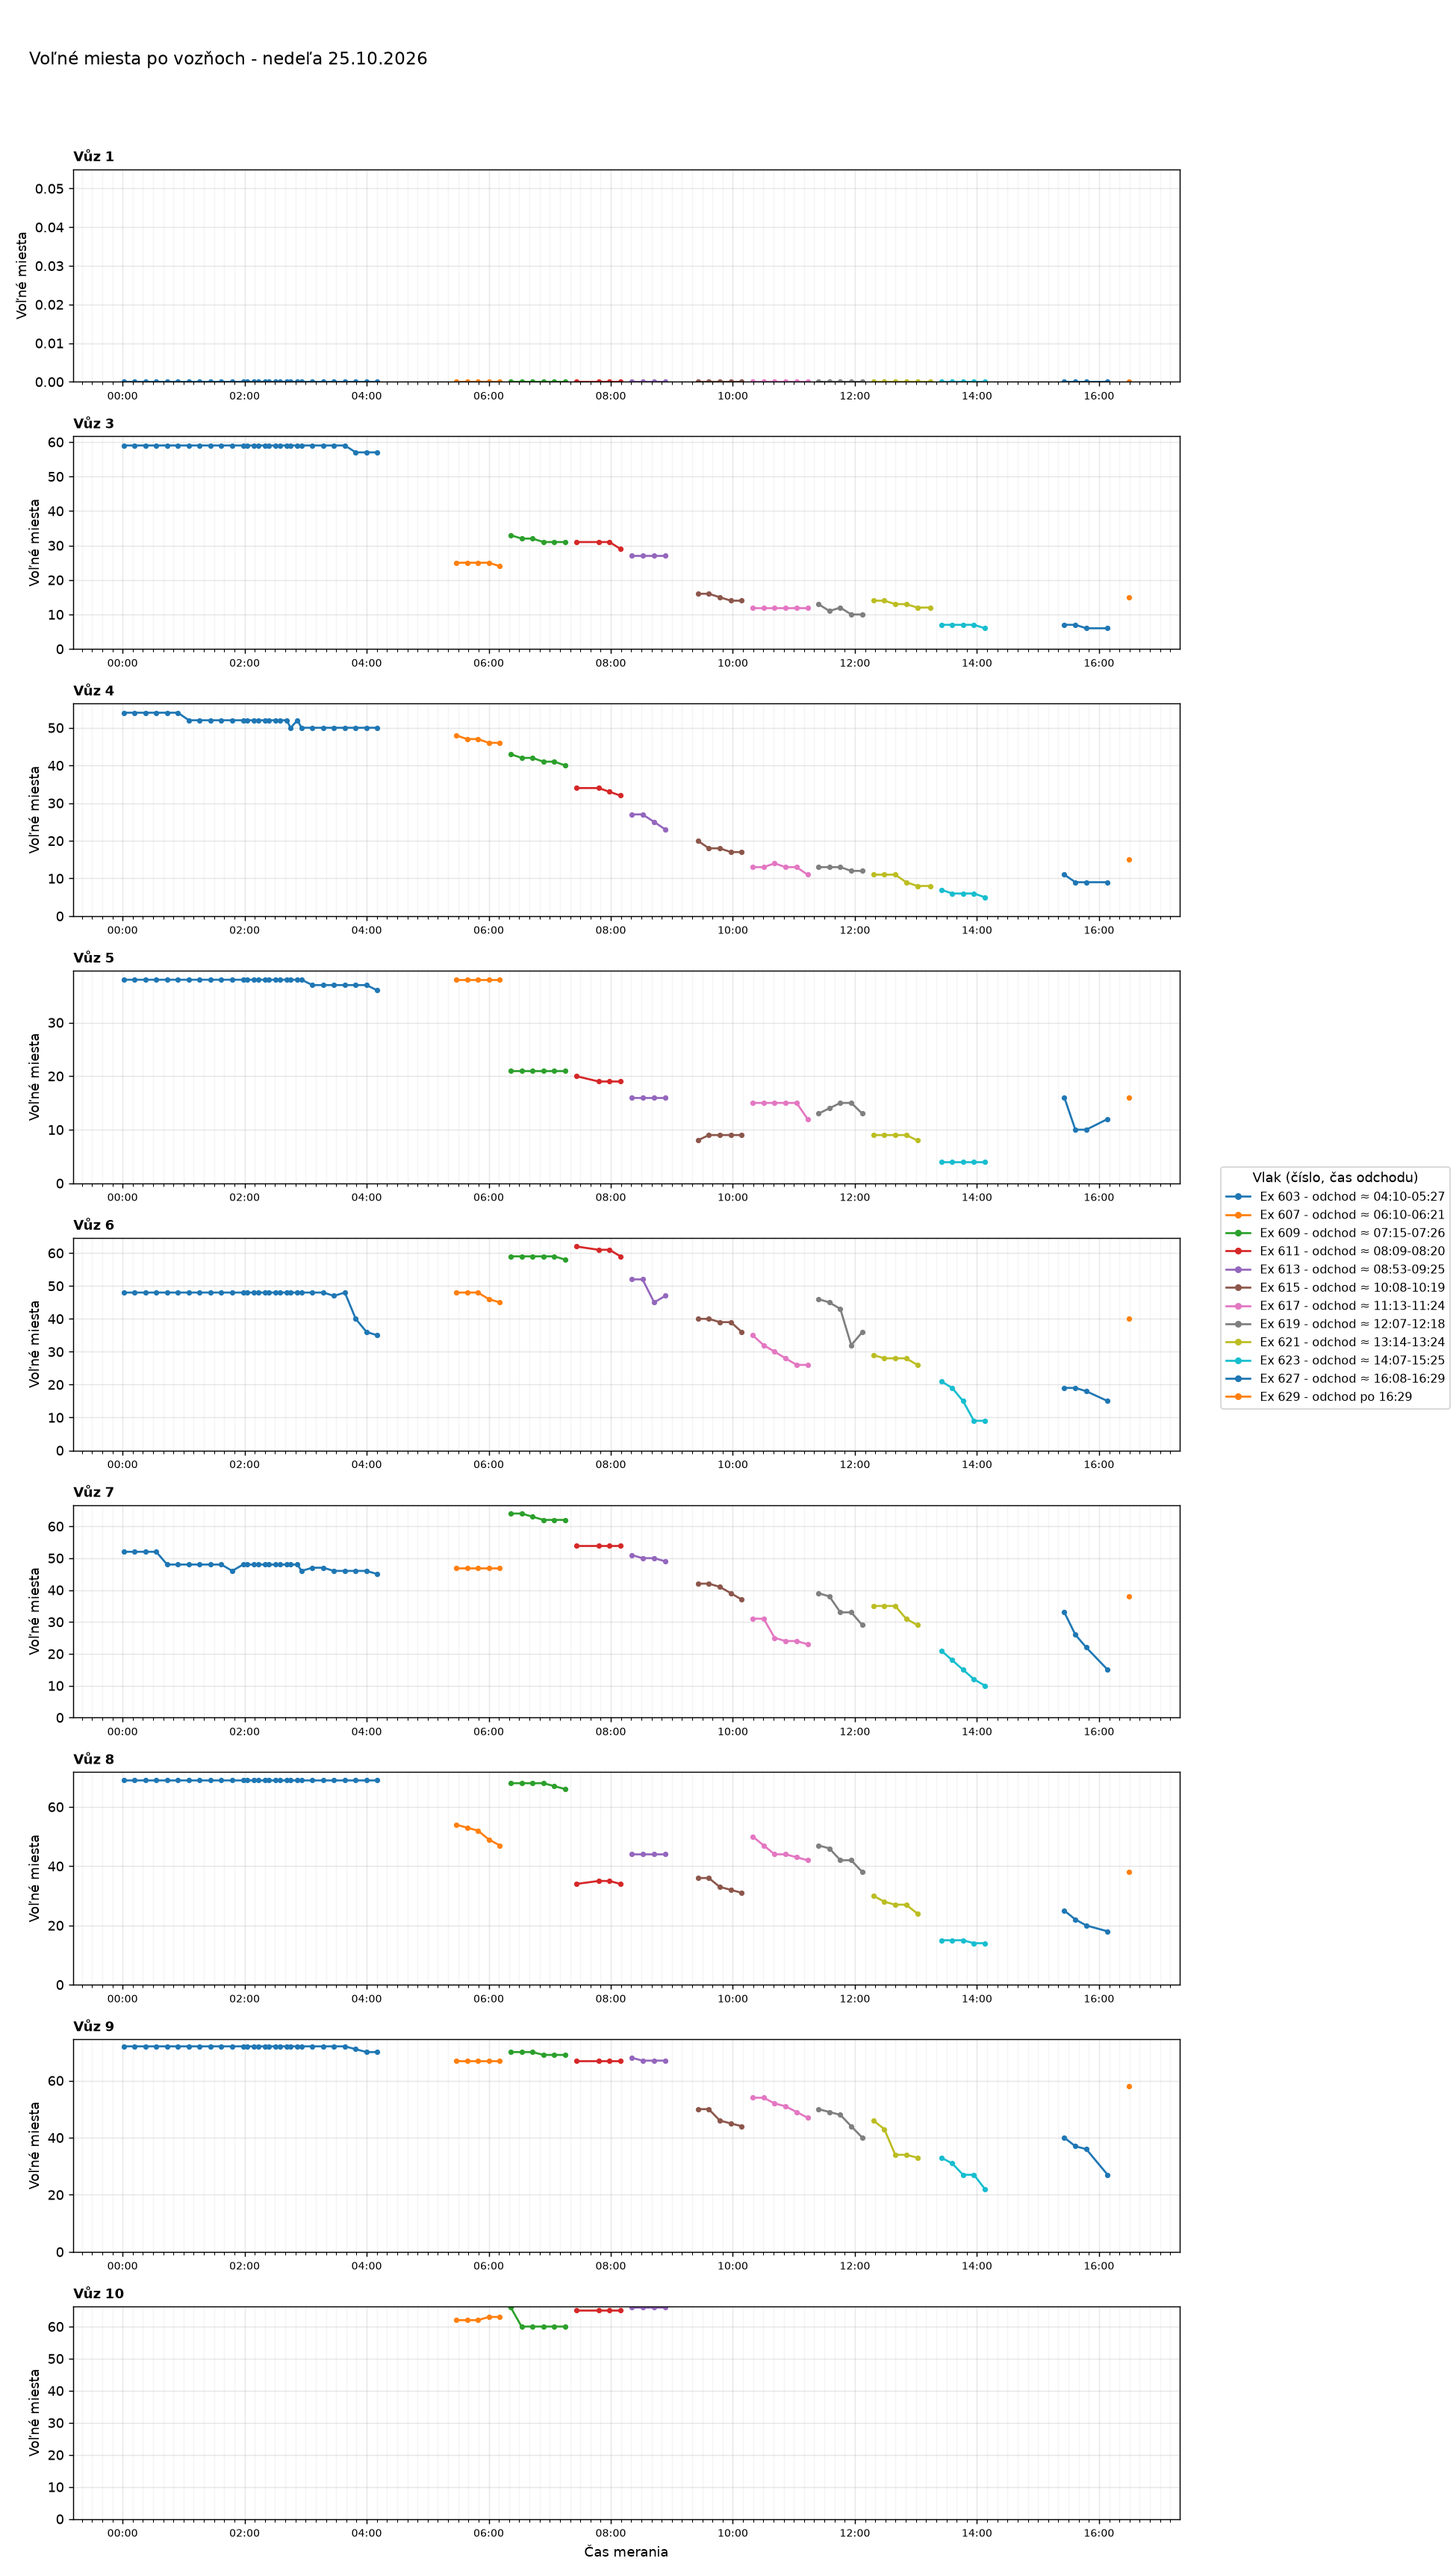
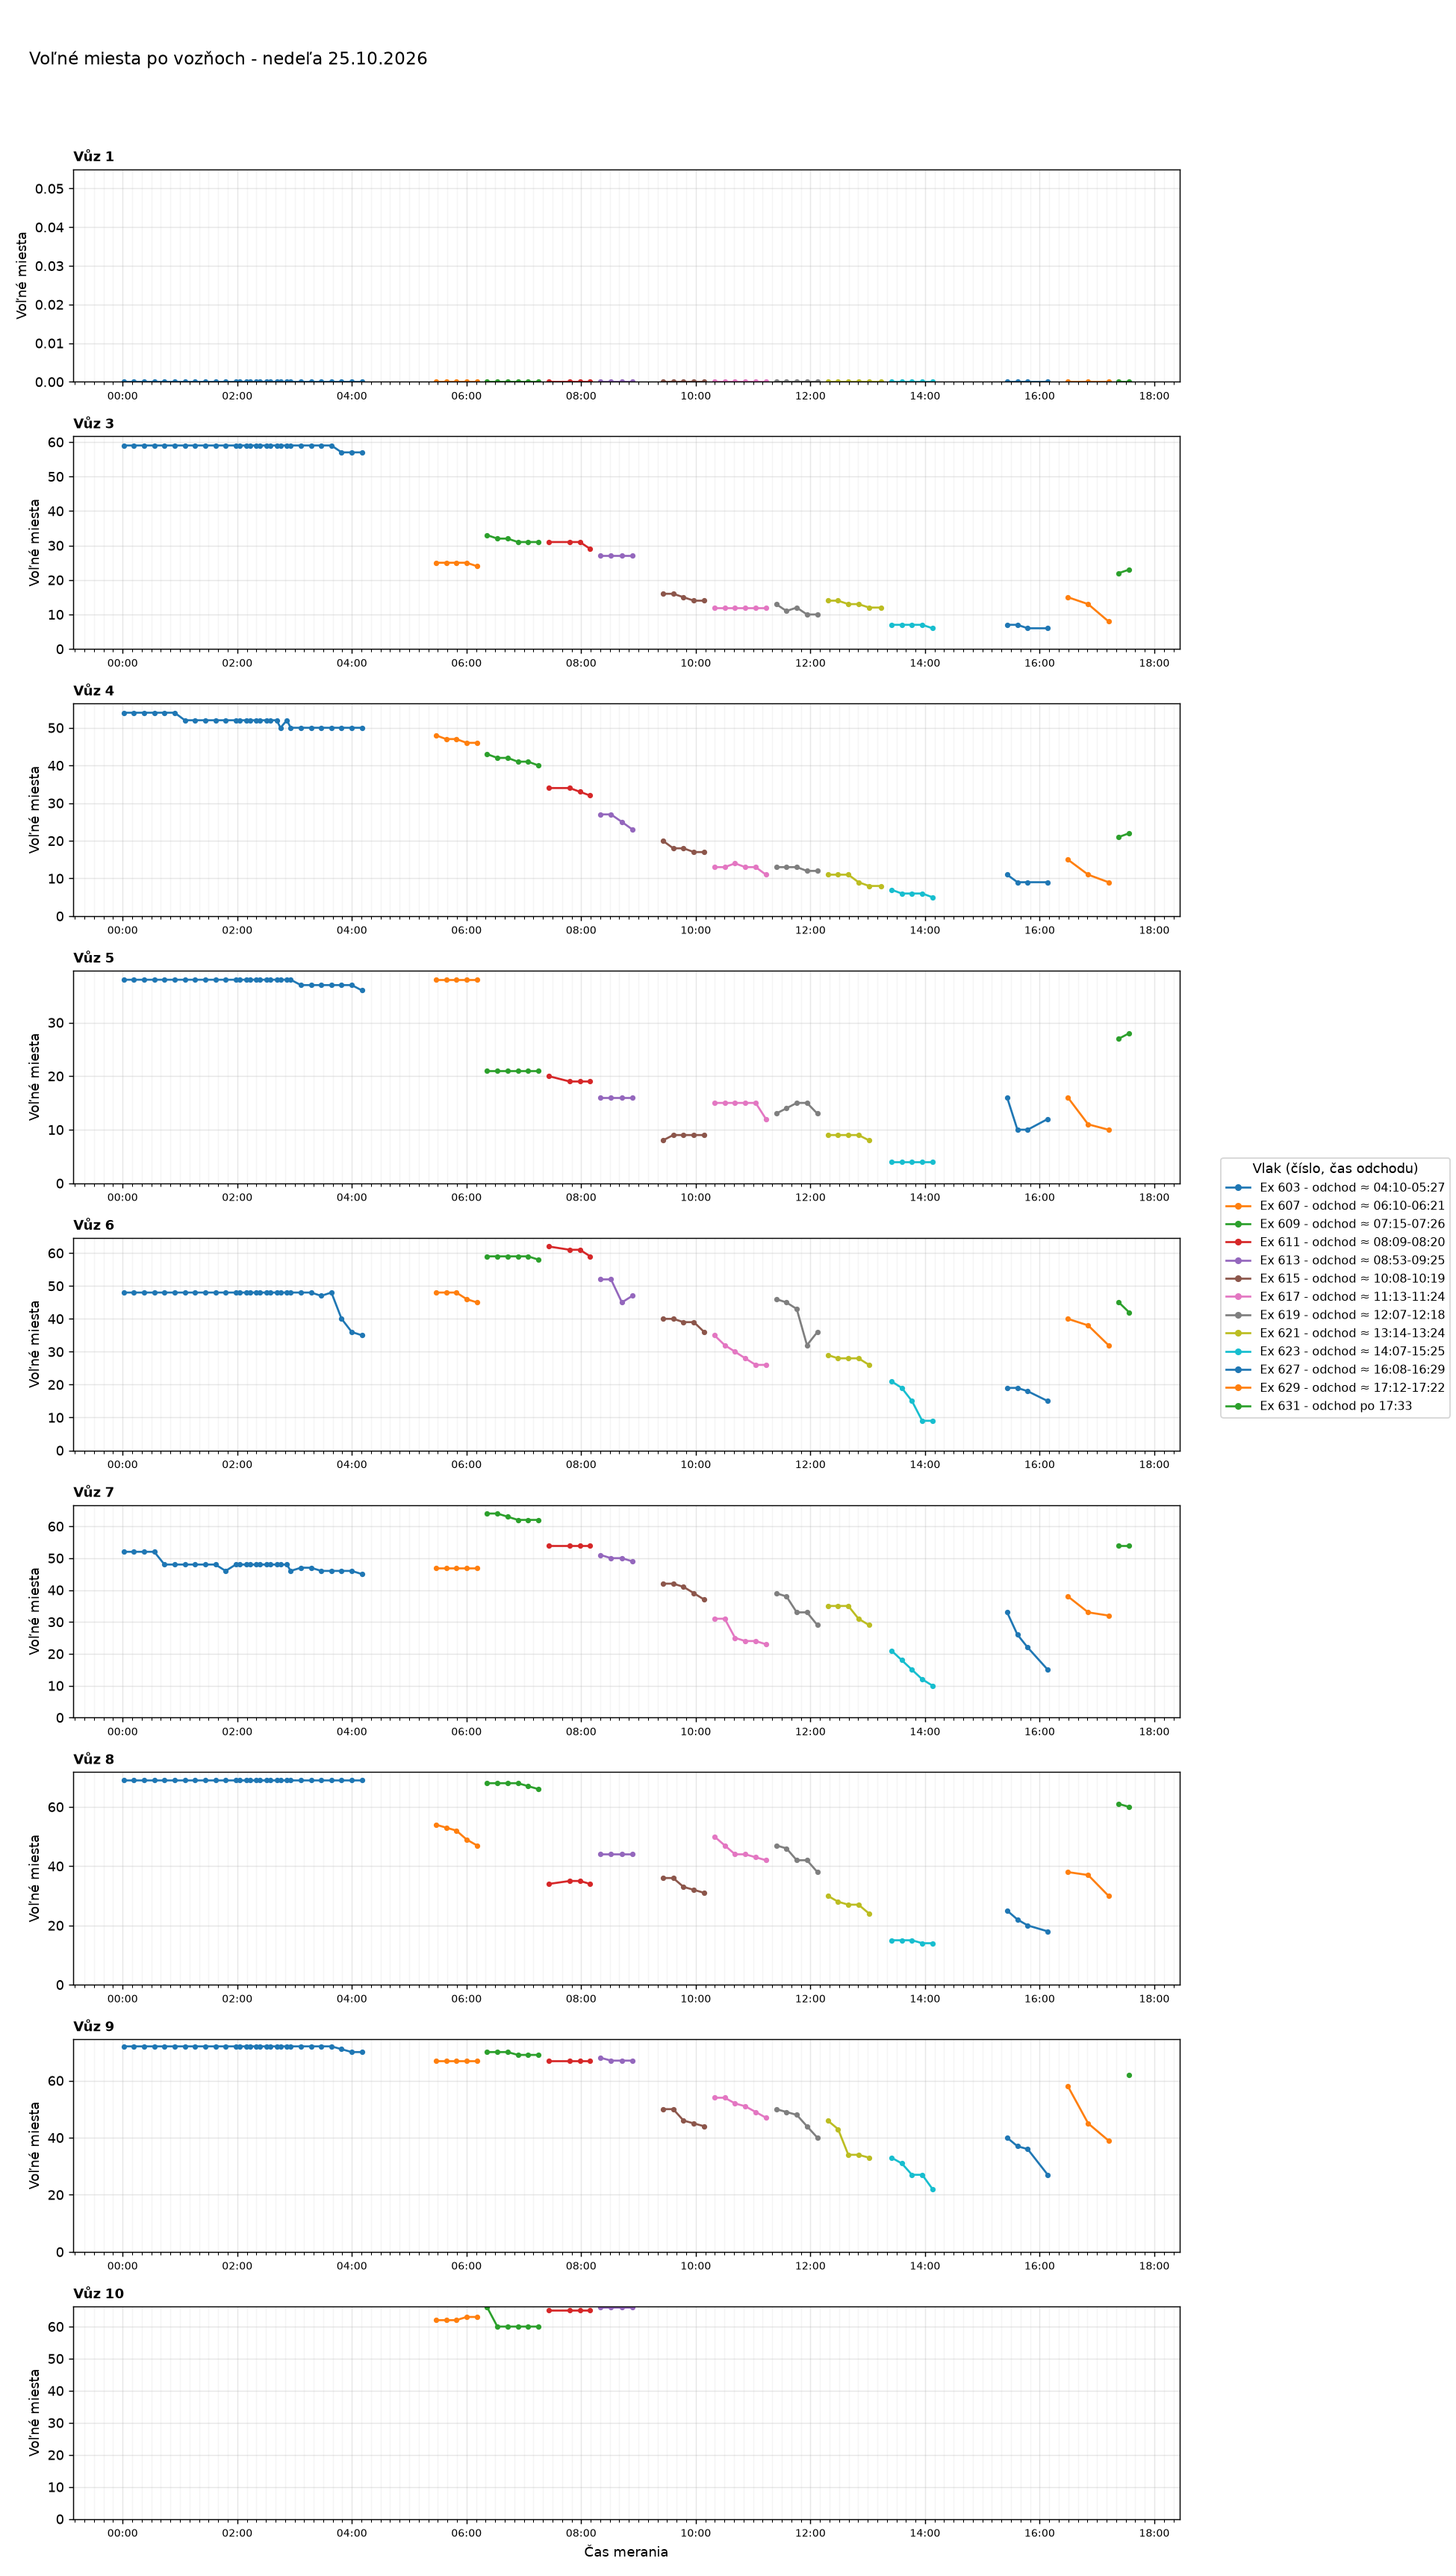
Aktualizácia grafov 2026-10-25 17:42

diff --git a/index.html b/index.html
@@ -35,7 +35,7 @@ h2.oddiel{margin:36px 0 0;font-size:1.4rem}
 <body>
 <main>
 <h1>Voľné miesta vo vlakoch</h1>
-<p class="muted">Posledné meranie: 25.10.2026 16:29 ·
+<p class="muted">Posledné meranie: 25.10.2026 17:33 ·
 <a href="data/obsadenost_data.csv">stiahnuť dáta (CSV)</a></p>
 <nav class="nav"><a href="#suhrn">Súhrn</a><a href="#statistiky">Štatistiky</a><a href="#historia">História grafov</a></nav>
 
@@ -44,7 +44,7 @@ h2.oddiel{margin:36px 0 0;font-size:1.4rem}
 <div class="tablewrap"><table>
 <thead><tr><th>Deň</th><th>Meraní</th><th>Vlakov</th><th>Čas meraní</th></tr></thead>
 <tbody>
-<tr><td><a href="#d2026-10-25">nedeľa 25.10.2026</a></td><td>81</td><td>12</td><td>00:01-16:29</td></tr>
+<tr><td><a href="#d2026-10-25">nedeľa 25.10.2026</a></td><td>85</td><td>13</td><td>00:01-17:33</td></tr>
 <tr><td><a href="#d2026-10-24">sobota 24.10.2026</a></td><td>98</td><td>14</td><td>00:10-23:50</td></tr>
 <tr><td><a href="#d2026-10-23">piatok 23.10.2026</a></td><td>64</td><td>13</td><td>07:25-23:49</td></tr>
 <tr><td><a href="#d2026-10-22">štvrtok 22.10.2026</a></td><td>80</td><td>11</td><td>00:08-16:10</td></tr>
